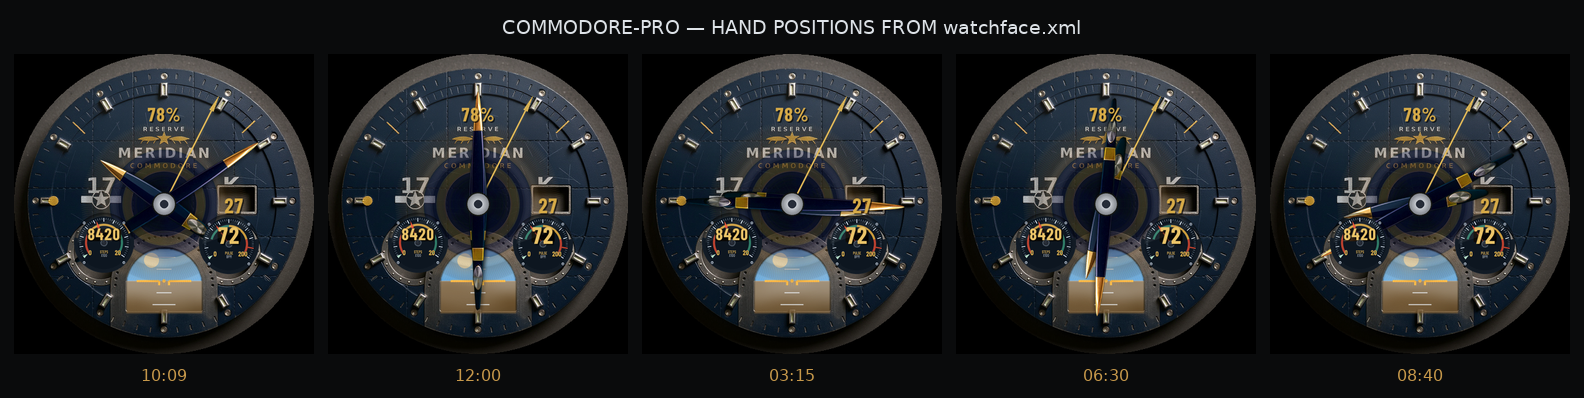
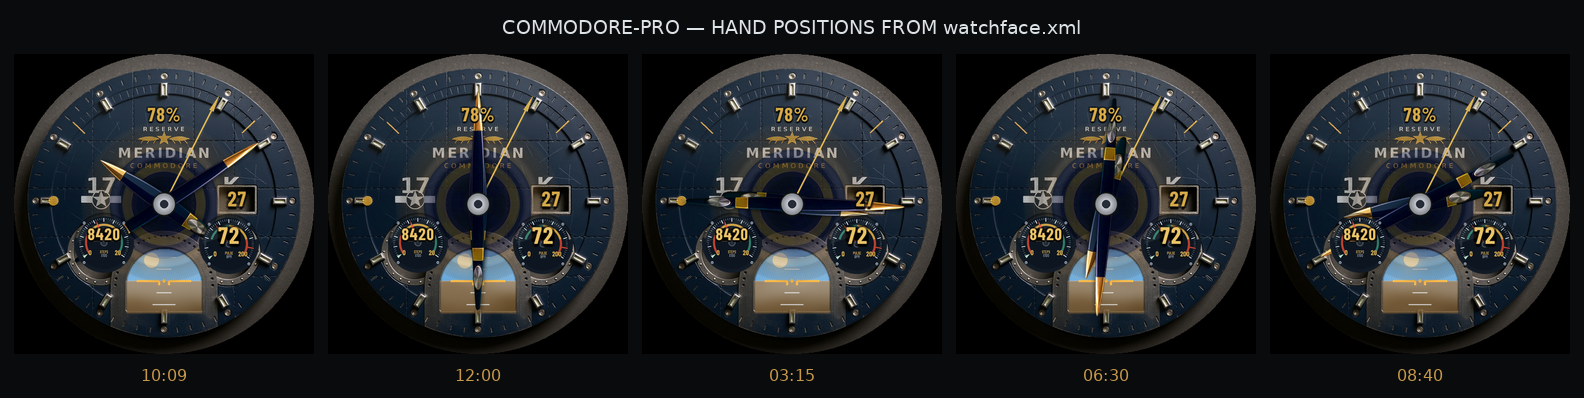
Readouts: a closed halo, and a date centred by measurement
A DROP SHADOW WAS NOT ENOUGH, and the reason is worth keeping. One offset
copy gives a numeral an edge on two sides and leaves the other two sitting
flat against whatever is behind them; on a plate as busy as this one that
still reads as pasted on. What lifts a bright numeral off a background is a
CONTINUOUS DARK OUTLINE.

So each number is now drawn on all four diagonals at 120 alpha to close the
halo, once more further down at 205 for the cast shadow, then the gold on
top. Six passes, all ordinary PartText, no construct the line has not
shipped. Twenty-four text parts on the face and the memory evaluator is
still comfortable.

The counter window behind them became a cut window rather than a dark patch:
the aperture is punched through the dial, so its top edge shadows inward and
its bottom edge catches the light coming down the panel.

THE DATE WAS NEVER CENTRED, and not only here. The aperture's interior
measures x 327..386, y 212..251 on the plate, so its centre is (356.5,
232.5). COMMODORE centres its date on (352, 243) — four pixels left and ten
low — and PRO inherited that by copying the numbers instead of measuring the
hole. Now measured.

That is the same class of defect as the AURELIUS date finding in phase 4,
where the containment gate asserted the glyphs were inside the aperture and
never asserted they were centred in it. Being inside a hole and being
centred in it are different properties, and only one of them was ever
checked.
[…]

diff --git a/tools/make_pro_face.py b/tools/make_pro_face.py
@@ -173,8 +173,19 @@ def readout(name: str, x: int, y: int, w: int, h: int, size: int,
                 f'<Parameter expression="[{src}]" /></Template>'
                 '</BitmapFont></Text>',
                 '    </PartText>']
-    d = max(1, round(size * 0.075))
-    return part("_sh", d, d, "#000000", 165) + part("", 0, 0, colour, 255)
+
+    # A DROP SHADOW ALONE WAS NOT ENOUGH. One offset copy gives an edge on
+    # two sides and leaves the other two sitting flat on whatever is behind,
+    # and on a busy plate that still reads as pasted on. What makes a bright
+    # numeral lift off a background is a CONTINUOUS DARK OUTLINE — so the
+    # number is drawn on all four diagonals to close the halo, then once more
+    # further down for the cast shadow, then the fill.
+    d = max(2, round(size * 0.11))
+    o = []
+    for dx, dy in ((-d, -d), (d, -d), (-d, d), (d, d)):
+        o += part(f"_h{dx}_{dy}".replace("-", "n"), dx, dy, "#000000", 120)
+    o += part("_sh", 0, int(d * 1.7), "#000000", 205)
+    return o + part("", 0, 0, colour, 255)
 
 
 def instruments(pre: str) -> list[str]:
@@ -218,7 +229,11 @@ def instruments(pre: str) -> list[str]:
     # reserve and date, also enlarged — "all of the important numbers"
     o += readout("z20_reserve", 196, 80, 88, 34, 22, "BATTERY_PERCENT",
                  fmt="%d%%", colour="#D6AA47", amb=130)
-    o += readout("z23_date", 320, 226, 64, 34, 24, "DAY",
+    # Aperture interior measured off the plate: x 327..386, y 212..251,
+    # so its centre is (356.5, 232.5). The base face centred its date on
+    # (352, 243) — four pixels left and ten low — and PRO inherited that
+    # until it was measured rather than copied.
+    o += readout("z23_date", 324, 216, 65, 33, 24, "DAY",
                  colour="#D6AA47", amb=150)
     return o
 

diff --git a/tools/make_an_gauge.py b/tools/make_an_gauge.py
@@ -300,9 +300,15 @@ def finish(img, geom, size: int, counter: str | None, bezel: bool,
         cy = c * 0.72                      # above the hub, clear of it
         bb = d.textbbox((c, cy), slot, font=f_c, anchor="mm")
         pad = int(SS * 2.5)
-        d.rounded_rectangle([bb[0] - pad * 2, bb[1] - pad,
-                             bb[2] + pad * 2, bb[3] + pad],
-                            radius=pad, fill=(0, 0, 0, 185))
+        box = [bb[0] - pad * 2, bb[1] - pad, bb[2] + pad * 2, bb[3] + pad]
+        # A cut window, not a dark patch: the aperture is punched through the
+        # dial, so its top edge shadows inward and its bottom edge catches
+        # the light coming down the panel.
+        d.rounded_rectangle(box, radius=pad, fill=(0, 0, 0, 215))
+        d.line([(box[0] + pad, box[1]), (box[2] - pad, box[1])],
+               fill=(0, 0, 0, 235), width=max(1, int(SS * 1.6)))
+        d.line([(box[0] + pad, box[3]), (box[2] - pad, box[3])],
+               fill=(255, 255, 255, 40), width=max(1, int(SS * 1.1)))
         if counter is not None:
             engrave(d, (c, cy), counter, f_c, p["counter"], p, depth=1.4)
 
